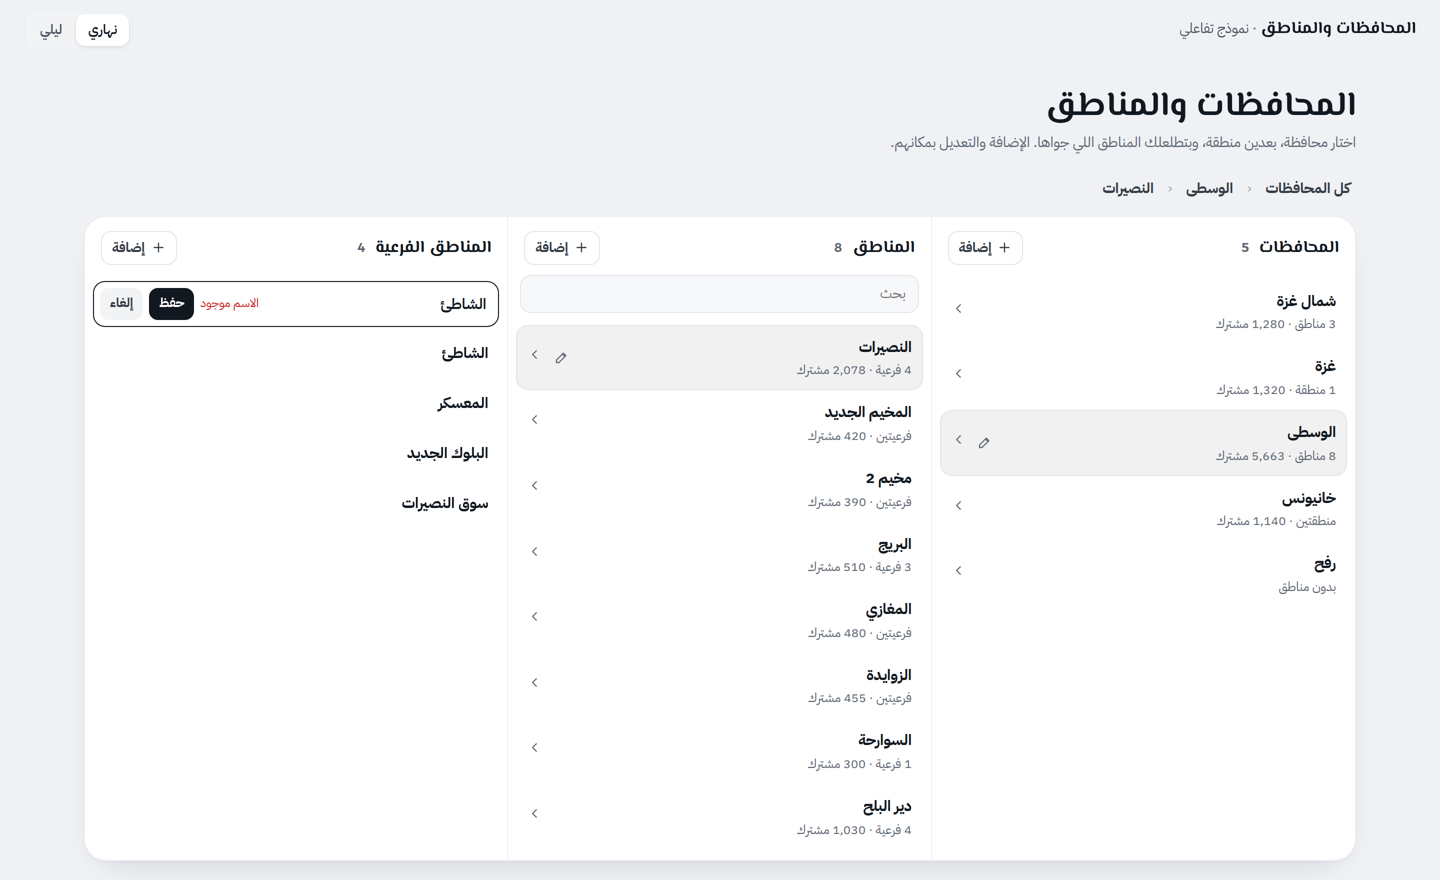
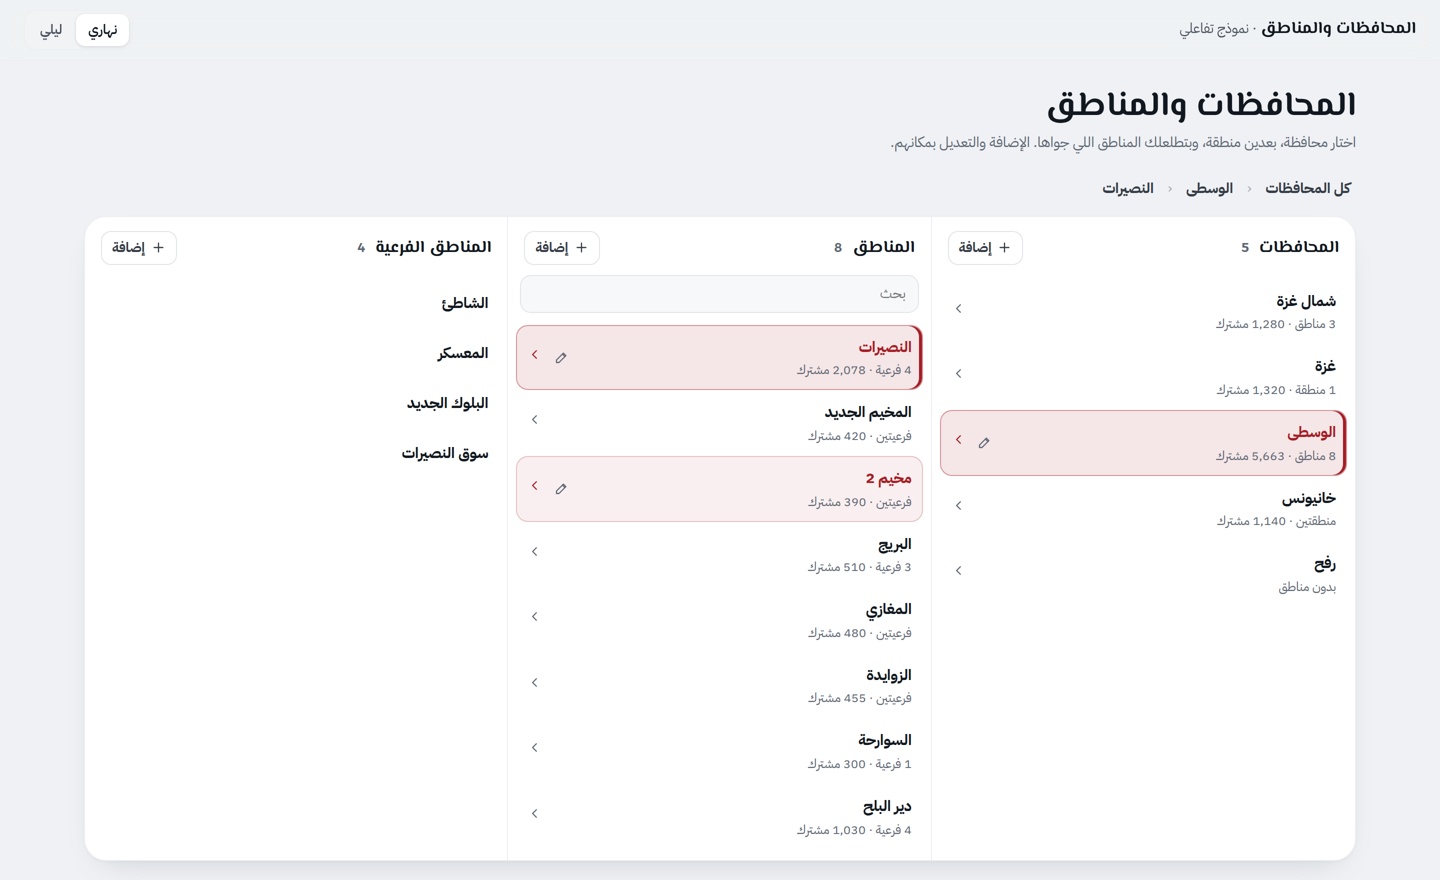
Governorates: burgundy hover and selected states
Claude-Session: https://claude.ai/code/session_01XCSA7vHgQhRJfaWcSo7nax

diff --git a/AF-PowerCollect-المحافظات.html b/AF-PowerCollect-المحافظات.html
@@ -259,7 +259,7 @@ tbody tr:hover .split,tbody tr.kb .split{background:linear-gradient(180deg,var(-
 [hidden]{display:none!important}
 .crumb{display:flex;align-items:center;gap:8px;flex-wrap:wrap;margin-top:18px;font-size:14.5px;color:var(--faint)}
 .crumb button{border:0;background:transparent;font:inherit;font-weight:700;color:var(--ink2);cursor:pointer;padding:4px 6px;border-radius:8px}
-.crumb button:hover{background:var(--sunken)}
+.crumb button:hover{background:color-mix(in srgb,var(--brand) 8%,transparent);color:var(--brand)}
 .crumb .sep{opacity:.5}
 .cols{margin-top:12px;display:grid;grid-template-columns:repeat(3,minmax(0,1fr));border:1px solid var(--line2);border-radius:22px;background:var(--surface);box-shadow:var(--shadow);overflow:hidden;min-height:560px}
 .col{display:flex;flex-direction:column;min-width:0;border-inline-start:1px solid var(--line2)}
@@ -268,15 +268,21 @@ tbody tr:hover .split,tbody tr.kb .split{background:linear-gradient(180deg,var(-
 .ch h2{margin:0;font:700 17px 'El Messiri',serif}
 .ch small{color:var(--faint);font:600 12.5px Alexandria}
 .ch .add{margin-inline-start:auto;height:34px;border-radius:10px;border:1px solid var(--line);background:var(--surface);padding:0 10px;font-weight:700;font-size:13.5px;color:var(--ink2);cursor:pointer;display:inline-flex;align-items:center;gap:6px}
-.ch .add:hover{background:var(--sunken)}
+.ch .add:hover{background:color-mix(in srgb,var(--brand) 8%,var(--surface));border-color:color-mix(in srgb,var(--brand) 40%,var(--line));color:var(--brand)}
 .ch .add svg{width:15px;height:15px}
 .cs{padding:0 12px 8px}
 .cs input{width:100%;height:38px;border:1px solid var(--line);border-radius:11px;background:var(--raised);padding:0 12px;font-size:14px}
 .cs input:focus{outline:none;border-color:var(--focus);background:var(--surface)}
 .cl{flex:1;overflow:auto;padding:4px 8px 10px}
 .it{display:flex;align-items:center;gap:10px;width:100%;padding:9px 10px;border-radius:12px;border:1px solid transparent;background:transparent;cursor:pointer;text-align:start;font:inherit;color:inherit}
-.it:hover{background:var(--sunken)}
-.it.on{background:color-mix(in srgb,var(--ink) 6%,var(--surface));border-color:var(--line)}
+.it{transition:background .15s,border-color .15s}
+.it:hover{background:color-mix(in srgb,var(--brand) 7%,var(--surface));border-color:color-mix(in srgb,var(--brand) 22%,transparent)}
+.it:hover b,.it:hover .go{color:var(--brand)}
+.it.on{background:color-mix(in srgb,var(--brand) 11%,var(--surface));border-color:color-mix(in srgb,var(--brand) 40%,transparent);box-shadow:inset -3px 0 0 var(--brand)}
+.it.on b,.it.on .go{color:var(--brand)}
+.it .pen:hover{color:var(--brand)!important}
+:root[data-theme=dark] .it:hover b,:root[data-theme=dark] .it:hover .go,:root[data-theme=dark] .it.on b,:root[data-theme=dark] .it.on .go,:root[data-theme=dark] .ch .add:hover,:root[data-theme=dark] .crumb button:hover{color:#f28b93}
+:root[data-theme=dark] .it.on{background:color-mix(in srgb,#e0707a 14%,var(--surface));border-color:#e0707a55;box-shadow:inset -3px 0 0 #e0707a}
 .it b{font-weight:700;font-size:15px}
 .it small{display:block;color:var(--faint);font-size:12.5px}
 .it .sp{margin-inline-start:auto;display:flex;align-items:center;gap:4px}
